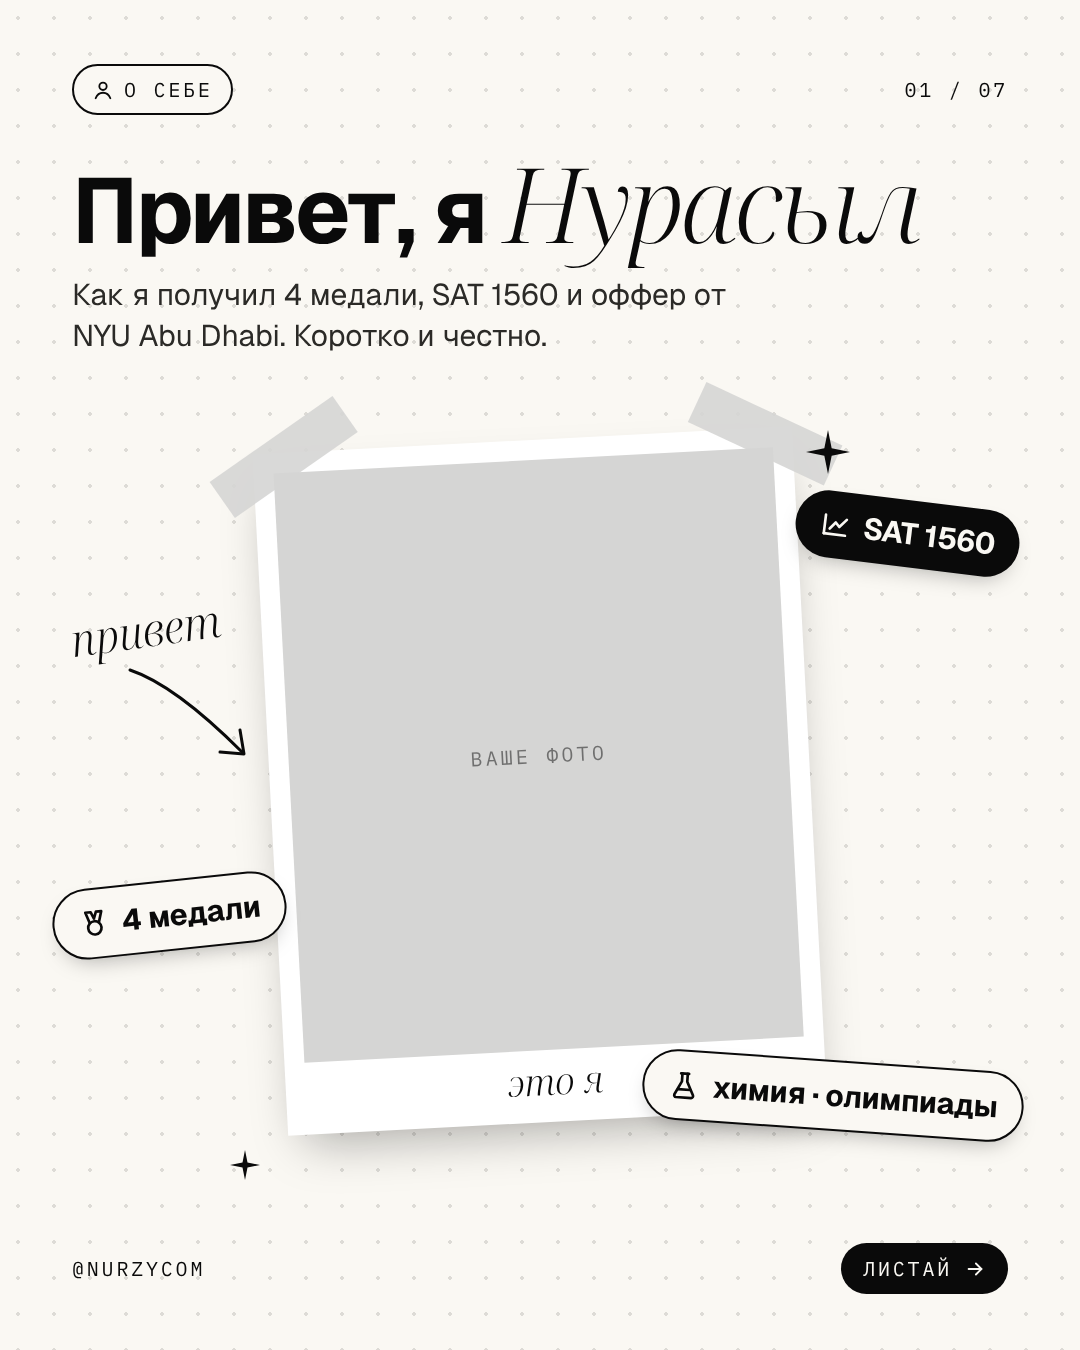
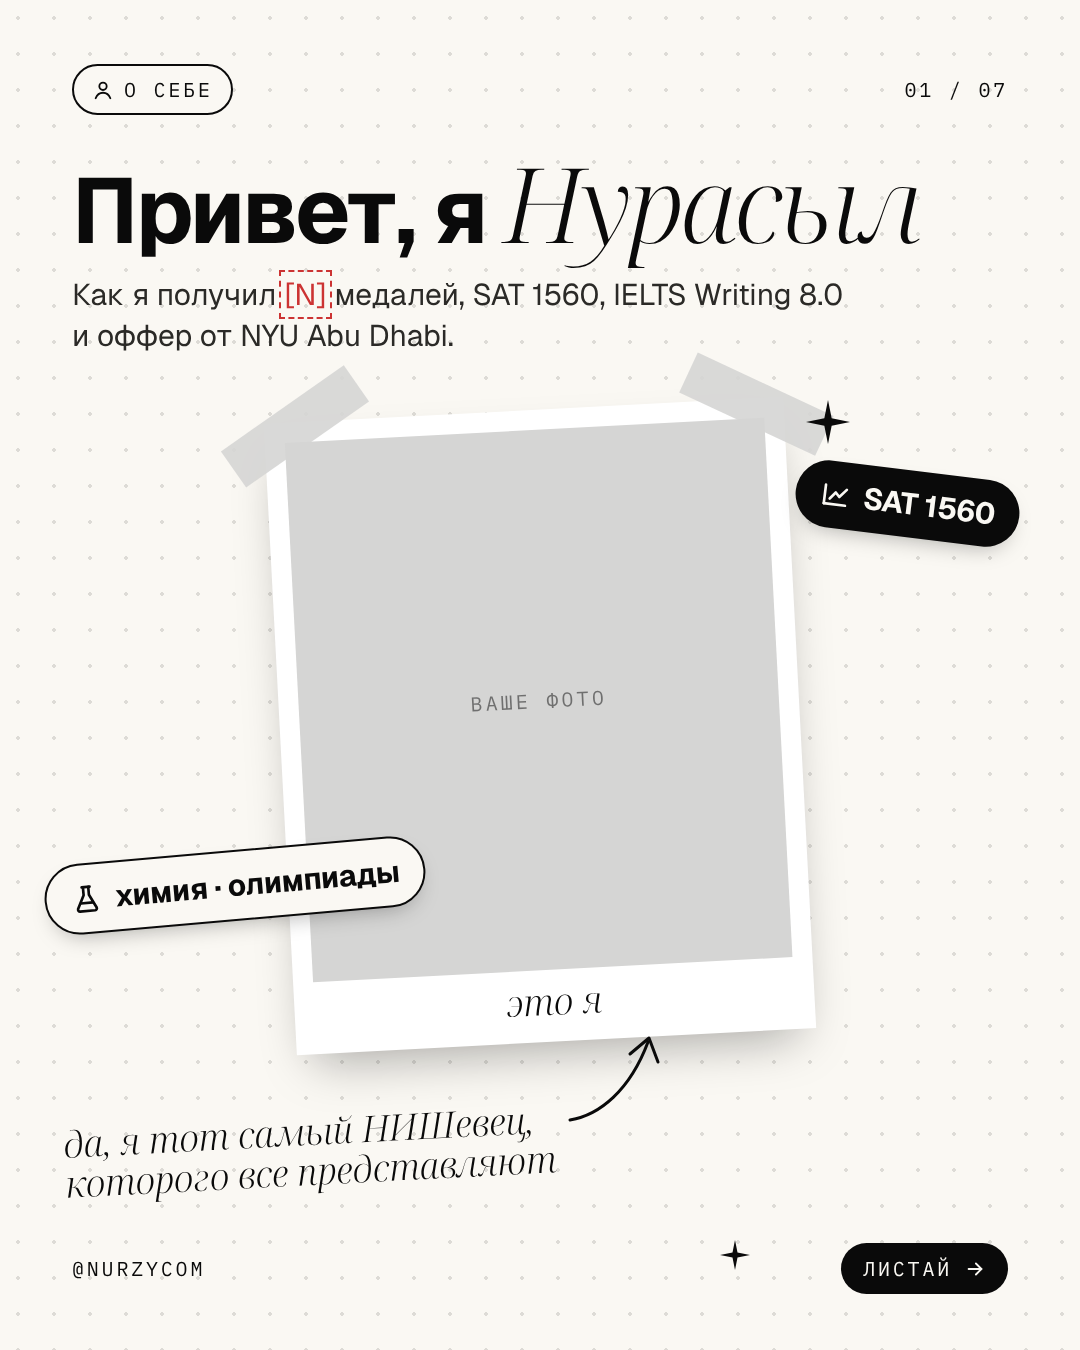
Story slide 1: NIS note, IELTS in subtitle, medal count pending verification
Claude-Session: https://claude.ai/code/session_01EUKBNPzc7y2DXSfnei23HU

diff --git a/social/story/slide-01.html b/social/story/slide-01.html
@@ -28,8 +28,8 @@
   h1 em { font: 300 italic 104px/1 var(--serif); letter-spacing: -.02em; }
   .sub { margin-top: 18px; font-size: 30px; line-height: 1.35; max-width: 40ch; color: #2b2a27; }
 
-  .polaroid { position: absolute; left: 50%; top: 440px; width: 540px; padding: 20px 20px 72px; background: #fff; transform: translateX(-50%) rotate(-3deg); box-shadow: 0 24px 50px -18px rgba(10,10,10,.35); }
-  .ph { position: relative; width: 500px; height: 590px; background: var(--studio); overflow: hidden; }
+  .polaroid { position: absolute; left: 50%; top: 410px; width: 520px; padding: 20px 20px 72px; background: #fff; transform: translateX(-50%) rotate(-3deg); box-shadow: 0 24px 50px -18px rgba(10,10,10,.35); }
+  .ph { position: relative; width: 480px; height: 540px; background: var(--studio); overflow: hidden; }
   .ph img { width: 100%; height: 100%; object-fit: cover; object-position: center 30%; display: none; }
   .ph.has img { display: block; }
   .slot { position: absolute; inset: 0; display: grid; place-items: center; font: 400 20px var(--mono); letter-spacing: .16em; text-transform: uppercase; color: rgba(10,10,10,.5); }
@@ -43,17 +43,18 @@
   .sticker svg { width: 32px; height: 32px; flex: none; }
   .s-dark { background: var(--ink); color: var(--paper); }
   .s-light { background: var(--paper); color: var(--ink); border: 2.5px solid var(--ink); }
-  .s1 { top: 500px; right: 60px; transform: rotate(7deg); }
+  .s1 { top: 470px; right: 60px; transform: rotate(7deg); }
   .s2 { top: 880px; left: 52px; transform: rotate(-6deg); }
-  .s3 { top: 1060px; right: 56px; transform: rotate(4deg); }
+  .s3 { top: 850px; left: 44px; transform: rotate(-5deg); }
 
-  .note { position: absolute; top: 600px; left: 70px; font: 300 italic 44px var(--serif); transform: rotate(-8deg); }
-  .arrow { position: absolute; top: 660px; left: 120px; width: 150px; height: 120px; }
+  .note { position: absolute; top: 1112px; left: 64px; font: 300 italic 36px/1.1 var(--serif); transform: rotate(-3deg); }
+  .todo { outline: 2px dashed #c33; outline-offset: 3px; color: #c33; }
+  .arrow { position: absolute; top: 1020px; left: 560px; width: 110px; height: 110px; }
   .arrow path { fill: none; stroke: var(--ink); stroke-width: 3; stroke-linecap: round; stroke-linejoin: round; }
   .sparkle { position: absolute; width: 44px; height: 44px; }
   .sparkle path { fill: var(--ink); }
-  .sp1 { top: 430px; right: 230px; }
-  .sp2 { top: 1150px; left: 230px; width: 30px; height: 30px; }
+  .sp1 { top: 400px; right: 230px; }
+  .sp2 { top: 1240px; left: 720px; width: 30px; height: 30px; }
 
   .foot { position: absolute; left: 72px; right: 72px; bottom: 56px; display: flex; justify-content: space-between; align-items: center; font: 400 20px var(--mono); letter-spacing: .14em; text-transform: uppercase; }
   .swipe { display: inline-flex; align-items: center; gap: 12px; padding: 12px 22px; background: var(--ink); color: var(--paper); border-radius: 999px; }
@@ -68,7 +69,7 @@
   </div>
 
   <h1>Привет, я <em>Нурасыл</em></h1>
-  <p class="sub">Как я получил 4 медали, SAT 1560 и оффер от NYU&nbsp;Abu&nbsp;Dhabi. Коротко и честно.</p>
+  <p class="sub">Как я получил <span class="todo">[N]</span> медалей, SAT&nbsp;1560, IELTS Writing&nbsp;8.0 и оффер от NYU&nbsp;Abu&nbsp;Dhabi.</p>
 
   <div class="polaroid">
     <span class="tape a"></span><span class="tape b"></span>
@@ -77,11 +78,10 @@
   </div>
 
   <span class="sticker s-dark s1"><svg class="i" viewBox="0 0 24 24"><path d="M4 19V5"/><path d="M4 19h16"/><path d="M8 15l4-5 3 3 5-6"/></svg>SAT 1560</span>
-  <span class="sticker s-light s2"><svg class="i" viewBox="0 0 24 24"><circle cx="12" cy="15" r="5"/><path d="M8.5 11 6 3h4l2 5 2-5h4l-2.5 8"/></svg>4 медали</span>
   <span class="sticker s-light s3"><svg class="i" viewBox="0 0 24 24"><path d="M9 3h6"/><path d="M10 3v6L5 19a1.5 1.5 0 0 0 1.3 2h11.4A1.5 1.5 0 0 0 19 19l-5-10V3"/><path d="M7.5 15h9"/></svg>химия · олимпиады</span>
 
-  <span class="note">привет</span>
-  <svg class="arrow" viewBox="0 0 150 120"><path d="M10 10 C 40 20, 80 50, 122 92"/><path d="M100 92 L 124 94 L 120 70"/></svg>
+  <span class="note">да, я тот самый НИШевец,<br>которого все представляют</span>
+  <svg class="arrow" viewBox="0 0 110 110"><path d="M10 100 C 40 95, 70 70, 88 22"/><path d="M70 34 L 89 18 L 98 42"/></svg>
   <svg class="sparkle sp1" viewBox="0 0 24 24"><path d="M12 0 L14 10 L24 12 L14 14 L12 24 L10 14 L0 12 L10 10 Z"/></svg>
   <svg class="sparkle sp2" viewBox="0 0 24 24"><path d="M12 0 L14 10 L24 12 L14 14 L12 24 L10 14 L0 12 L10 10 Z"/></svg>
 
